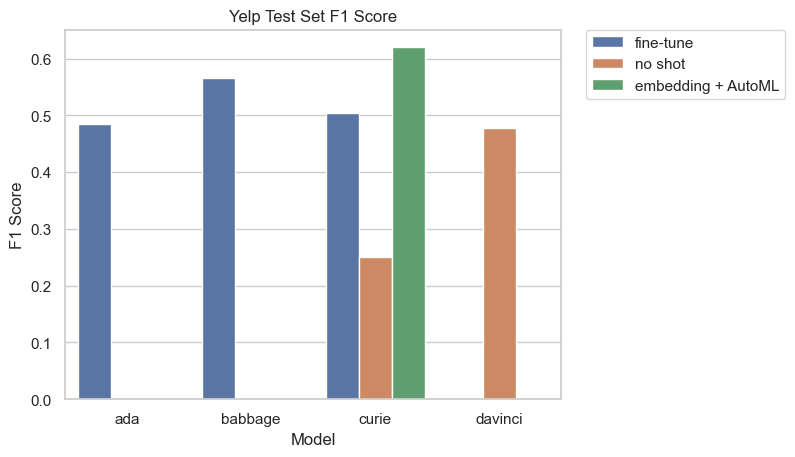
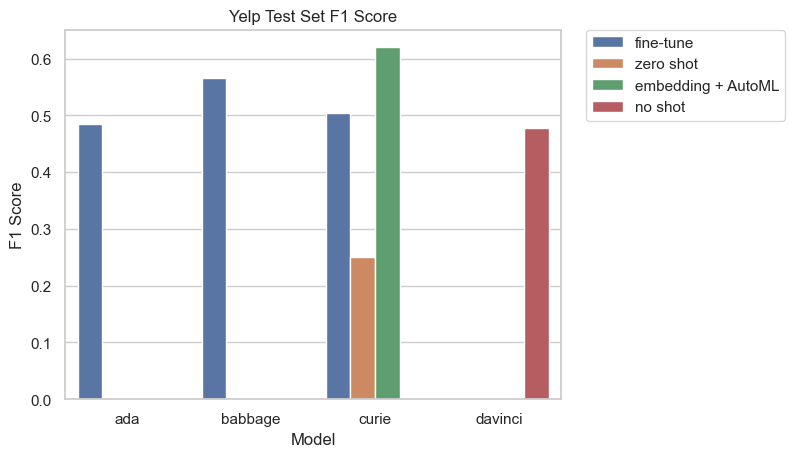
zero shot

diff --git a/notes.md b/notes.md
@@ -2,7 +2,7 @@
 
 ### Fine-tuning is useful.
 
-For classification, below are the different models and modes that were tried. As can be seen, **no shot** only starts to perform well with davinci. **Fine-tuning** works well on the lower end models, but strangely fails to show improvements on curie. **Embedding + AutoML**, however, works very well on curie. 
+For classification, below are the different models and modes that were tried. As can be seen, **zero shot** only starts to perform well with davinci. **Fine-tuning** works well on the lower end models, but strangely fails to show improvements on curie. **Embedding + AutoML**, however, works very well on curie. 
 
 ![](images/yelp_test_f1.png)
 
